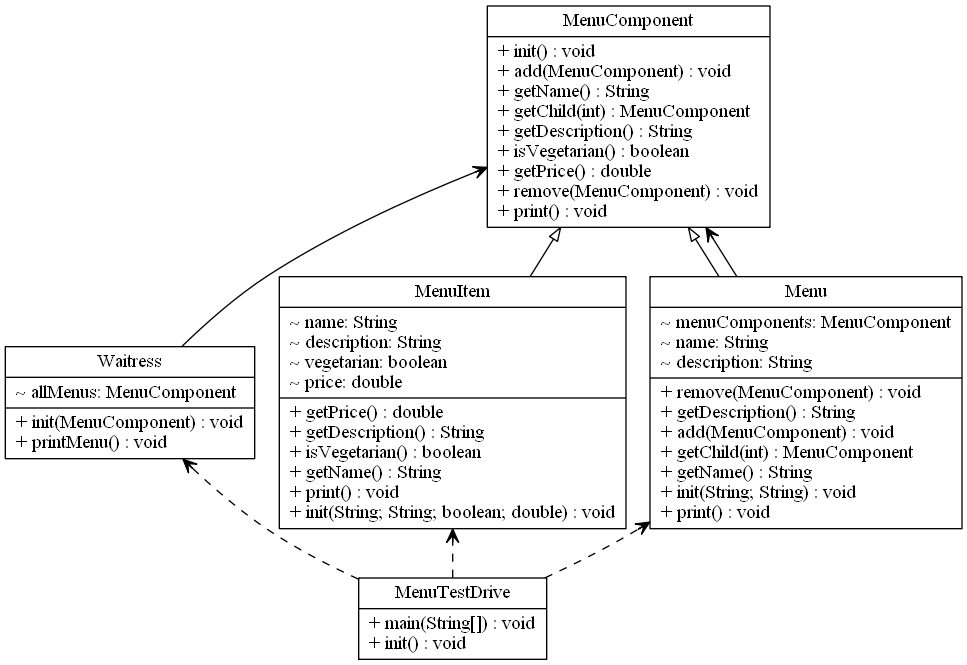
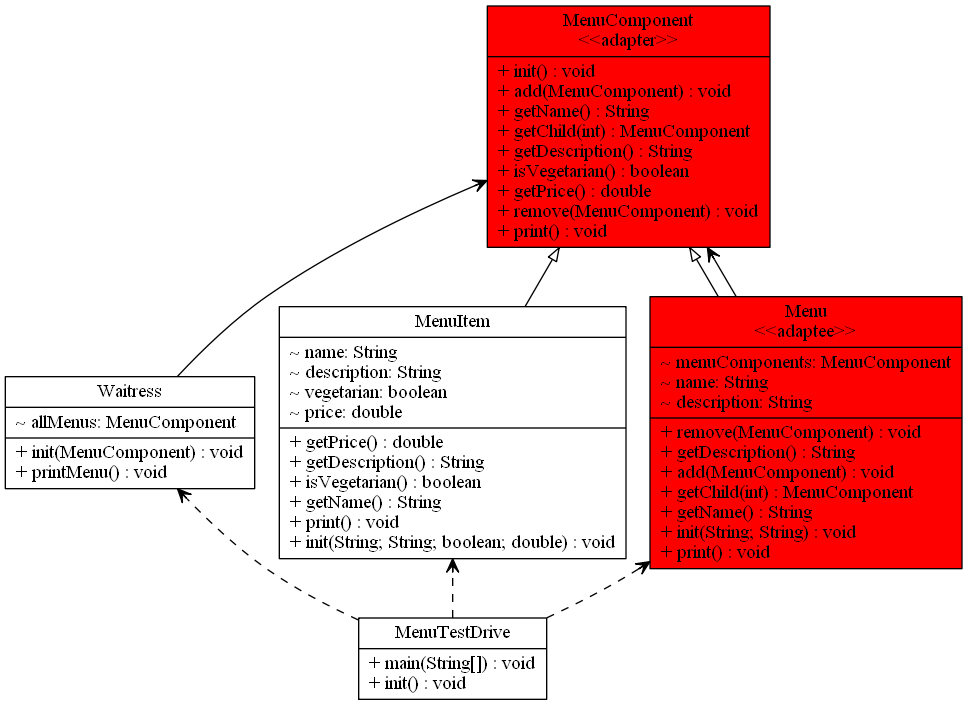
working on composite detection

diff --git a/src/problem/asm/DesignParser.java b/src/problem/asm/DesignParser.java
@@ -15,6 +15,7 @@ import org.objectweb.asm.ClassVisitor;
 import org.objectweb.asm.Opcodes;
 
 import problem.model.detectors.AdapterDetector;
+import problem.model.detectors.CompositeDetector;
 import problem.model.detectors.DecoratorDetector;
 import problem.model.detectors.IPatternDetector;
 import problem.model.detectors.SingletonDetector;
@@ -274,6 +275,8 @@ public class DesignParser {
 		IPatternDetector adapterDetector = new AdapterDetector(model);
 		adapterDetector.detectPatterns();
 		
+		IPatternDetector compositeDetector = new CompositeDetector(model);
+		compositeDetector.detectPatterns();
 		
 		ModelPatternVisitor mpv = new ModelPatternVisitor();
 		mpv.detect(model);
@@ -282,10 +285,10 @@ public class DesignParser {
 		gv.write(model);
 		gv.close();
 
-		 ProcessBuilder builder = new ProcessBuilder("cmd.exe", "/c",
-		 "\"C:\\Users\\leekf\\Documents\\JUNIOR\\CSSE374\\release\\bin\\dot\" -Tpng input_output/model.gv > input_output/graph1.png");
-		//ProcessBuilder builder = new ProcessBuilder("cmd.exe", "/c",
-			//	"\"C:\\Users\\punttj\\Desktop\\csse374\\release\\bin\\dot\" -Tpng input_output/model.gv > input_output/graph1.png");
+		 //ProcessBuilder builder = new ProcessBuilder("cmd.exe", "/c",
+		 //"\"C:\\Users\\leekf\\Documents\\JUNIOR\\CSSE374\\release\\bin\\dot\" -Tpng input_output/model.gv > input_output/graph1.png");
+		ProcessBuilder builder = new ProcessBuilder("cmd.exe", "/c",
+				"\"C:\\Users\\punttj\\Desktop\\csse374\\release\\bin\\dot\" -Tpng input_output/model.gv > input_output/graph1.png");
 		builder.redirectErrorStream(true);
 		Process p = builder.start();
 		String line;

diff --git a/src/problem/model/detectors/AdapterDetector.java b/src/problem/model/detectors/AdapterDetector.java
@@ -36,13 +36,13 @@ public class AdapterDetector implements IPatternDetector {
 				for (String s : splitArgs) {
 					s = s.trim();
 					for (IField f : c.getFields()) {
-						if (s.equals(f.getType())) {
+						if (s.equals(f.getType()) && !f.getIsCollection()) {
 							// this has a field that is passed in through the
 							// constructor
 
 							IClass adaptee = null;
 							for (IClass c2 : this.model.getClasses()) {
-								if (c2.getName().equals(f.getType())) {
+								if (c2.getName().equals(f.getType()) && !f.getIsCollection()) {
 									adaptee = c2;
 									break;
 								}

diff --git a/src/problem/model/detectors/CompositeDetector.java b/src/problem/model/detectors/CompositeDetector.java
@@ -9,13 +9,13 @@ import problem.models.api.IClass;
 import problem.models.api.IField;
 import problem.models.api.IModel;
 
-public class ComponentDetector implements IPatternDetector {
+public class CompositeDetector implements IPatternDetector {
 	private IModel model;
 	private ArrayList<IClass> composites;
 	private ArrayList<IClass> components;
 	private ArrayList<IClass> leaves;
 
-	public ComponentDetector(IModel model) {
+	public CompositeDetector(IModel model) {
 		this.model = model;
 		this.composites = new ArrayList<IClass>();
 		this.components = new ArrayList<IClass>();

diff --git a/src/problem/models/impl/ModelGVOutputStream.java b/src/problem/models/impl/ModelGVOutputStream.java
@@ -8,7 +8,10 @@ import java.util.ArrayList;
 import problem.model.decorators.AdapteeDecorator;
 import problem.model.decorators.AdapterDecorator;
 import problem.model.decorators.ComponentDecorator;
+import problem.model.decorators.CompositeComponentDecorator;
+import problem.model.decorators.CompositeDecorator;
 import problem.model.decorators.DecoratorDecorator;
+import problem.model.decorators.LeafDecorator;
 import problem.model.decorators.SingletonDecorator;
 import problem.model.decorators.TargetDecorator;
 import problem.model.detectors.IPatternDetector;
